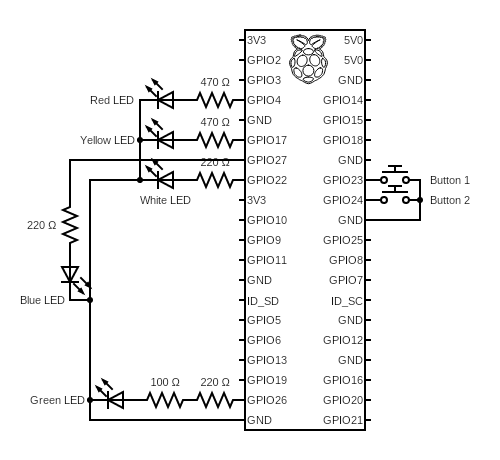
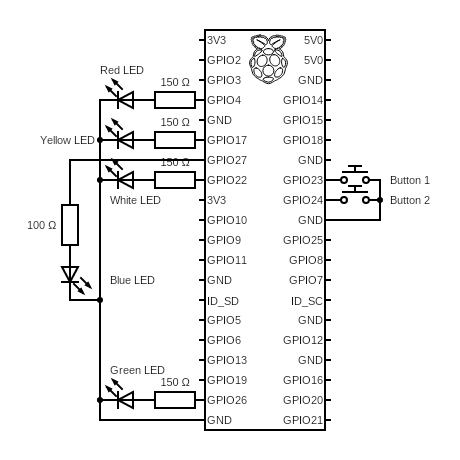
Use LaTeX for equasions and update PNG with new Resistor values (#24)

Changed region(s): [[0.0304, 0.0609, 0.9435, 0.9435]]

diff --git a/hello_led/README.md b/hello_led/README.md
@@ -25,30 +25,26 @@ The ground pin on a Raspberry physical board is 6.
 Each LED requires a resistor. See the following equasion. Symbols are described
 in a table.
 
-```
-R = (Vp - Vd) / Id
-```
+$$ R = {{V_{p} - V_{d}} \over I_{d}} $$
 
-| Symbol | Unit  |  Description   |
-|--------|-------|----------------|
-| R      | Ohm   | Resistor value |
-| Vp     | Volt  | Power voltage  |
-| Vd     | Volt  | LED voltage    |
-| Id     | Amper | LED current    |
+| Symbol  | Unit  |  Description   |
+|---------|-------|----------------|
+| $R$     | Ohm   | Resistor value |
+| $V_{p}$ | Volt  | Power voltage  |
+| $V_{d}$ | Volt  | LED voltage    |
+| $I_{d}$ | Amper | LED current    |
 
- * `Vp` a power voltage needs to be greater than `Vd` (we need to provide more voltage than LED can consume), otherwise LED won't light up
- * each GPIO outputs `5V`
- * `Id` for each LED is the same `0.007A` (which can be represented as `7mA`).
- * red LED `Vd` is between `1.6V` and `2.2V`; we take average `1.9V`
- * yellow LED `Vd` is between `2V` and `2.3V`; we take average `2.1V`
- * blue LED `Vd` is between `2V` and `3.7V`; we take average `3.5V`
- * green LED `Vd` is between `2.9V` and `4V`; we take average `2.8V`
+ * $V_{p}$ a power voltage needs to be greater than $V_{d}$ (we need to provide more voltage than LED can consume), otherwise LED won't light up
+ * each GPIO outputs $5V$
+ * $I_{d}$ for each LED is the same $0.02A$ (which can be represented as $20mA$).
+ * red LED $V_{d}$ is between on average $2V$
+ * yellow LED $V_{d}$ is between on average $2V$
+ * blue LED $V_{d}$ is between on average $3.4V$
+ * green LED $V_{d}$ is between on average $2V$
 
 After calculating with already presented equasion we get:
- * red's resister 443 Ohm; closest value is 470 Ohm 
- * yellow's resister 414 Ohm; closest value is 470 Ohm
- * blue's resister 214 Ohm; closest value is 220 Ohm
- * green's resister 314 Ohm; closest value is 320 Ohm (thus two resistors 220 + 100) Ohm
+ * red, yellow and green LEDs' resister $150 \Omega$ - closest resistor is made of two resistor, $ 100 \Omega $ and $ 47 \Omega $
+ * blue's resister $80 \Omega$ - closest resistor is $100 \Omega$
 
 [![Created with Circut Diagram Webpage](circuit.png)](https://www.circuit-diagram.org/editor/)
 

diff --git a/potenciometer_led/README.md b/potenciometer_led/README.md
@@ -5,22 +5,24 @@
 The breadbord schematic will use the BCM mode (just like the python script).
 This means that pins use the GPIO numbering and not the physical board numbering.
 
-Raspberry Pi rads the GPIO pin as one of two values `0` and `1`. So the
+Raspberry Pi reads the GPIO pin as one of two values `0` and `1`. So the
 potentiometer needs to be turn on completly (all the way) to be read as `1`.
 Otherwise it'll be read as `0` even it the potentiometer is half way turned.
 
 [![Raspberry with a Potentiometer Controlling LED](./circuit.png)](https://www.circuit-diagram.org/editor/)
 
 One leg (right or left) goes to a ground pin, 2nd leg (left or right) goes
-to a 5V power pin. The middle leg goes to the GPIO 14 pin. This leg will output
-voltage from 0V up to 5V depending on the potentionmeter's knob position and this pin.
-Only when max 5V is output from the middle leg the Raspberry Pi will read a `GPIO.HIGH`
+to a $5V$ power pin. The middle leg goes to the GPIO 14 pin. This leg will output
+voltage from $0V$ up to $5V$ depending on the potentionmeter's knob position and this pin.
+Only when max $5V$ is output from the middle leg the Raspberry Pi will read a `GPIO.HIGH`
 state.
 
 The LED positive leg (anode) geos to ground. While the negative leg (cathode)
 requires the calculated resistor which then goes to the GPIO 12 pin. This pin
-will output a power (of 5V) for a LED when put (by a pythin script) to a
+will output a power (of $5V$) for a LED when put (by a pythin script) to a
 `GPIO.HIGH` state.
+
+$$ {{5V - 2V} \over 20mA} = {3V \over 0.02A} = 150 \Omega $$
 
 ---
 

diff --git a/rfid_read_write/README.md b/rfid_read_write/README.md
@@ -21,8 +21,10 @@ breadbord numbering.
 
 LED is connected to:
   * anode (positive leg - short led) of LED goes to any Raspberry Pi ground pin
-  * cathode (negative leg - longer led) of LED connects with 100 Ohm resistor
-  * the 100 Ohm resister connects to Raspberry Pi GPIO 16 (pin 36)
+  * cathode (negative leg - longer led) of LED connects with $100 \Omega $
+    resistor (it's closest and greater value to $ 80 \Omega $)
+    * $ {{5V - 3.4V} \over 20mA} = {1.6V \over 0.02A} = 80 \Omega $
+  * the $ 100 \Omega $ resister connects to Raspberry Pi GPIO 16 (pin 36)
 
 [![Controlling LED with RFID circut](./circuit.png)](https://www.circuit-diagram.org/editor/)
 
